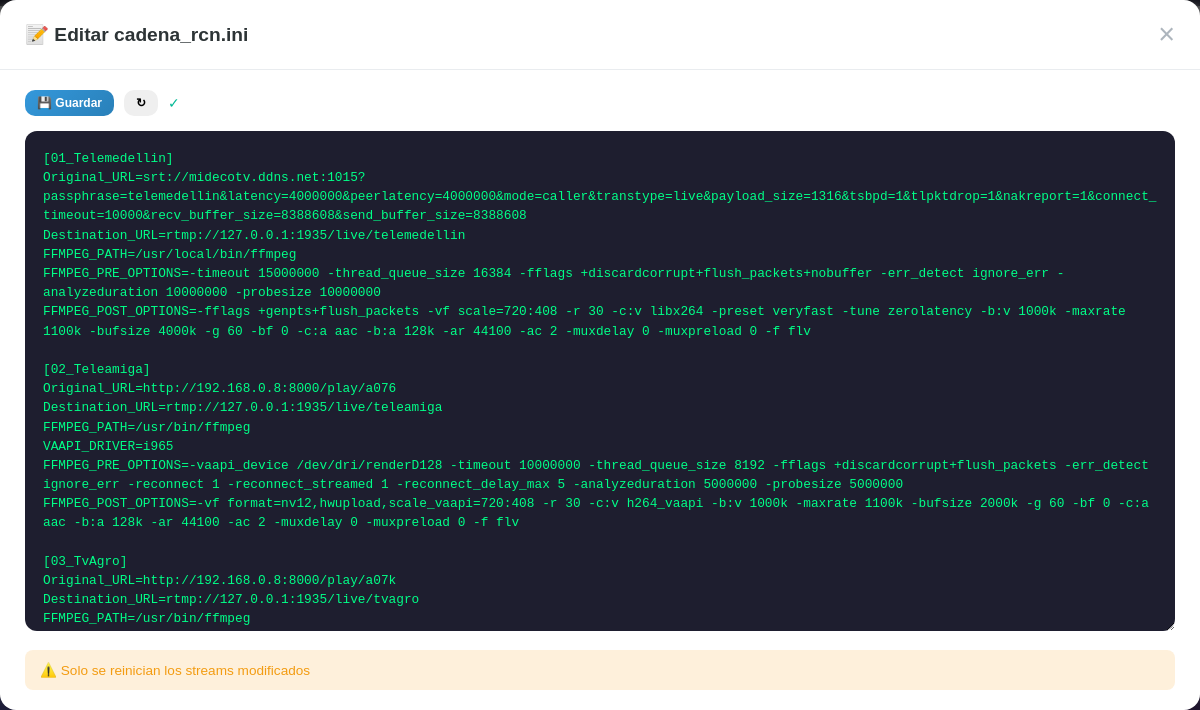
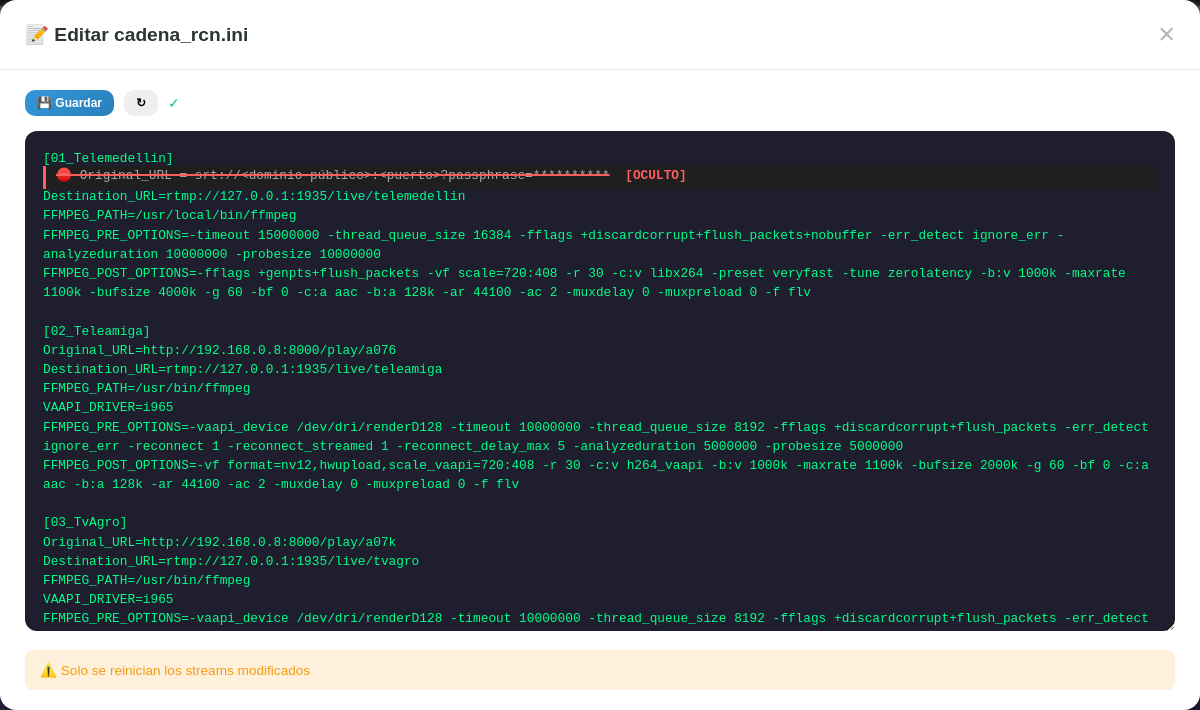
docs: redact public-domain line in INI editor screenshot
The Telemedellín source uses a public SRT host (midecotv.ddns.net) and
a passphrase, so its Original_URL must never appear in a public-facing
screenshot. The other streams run over LAN IPs and stay visible.

The screenshot script now sanitizes just that one line in the textarea
DOM and overlays an opaque strikethrough banner labelled [OCULTO] over
it before taking the screenshot. The original app and cadena_rcn.ini
are not modified.

diff --git a/tools/take_screenshots.py b/tools/take_screenshots.py
@@ -89,7 +89,74 @@ async def main():
         # INI modal
         await page.locator("button", has_text="INI").click()
         await page.wait_for_selector("#ini-modal", timeout=5000)
-        await page.wait_for_timeout(500)
+        await page.wait_for_function(
+            "document.getElementById('ini-content').value.includes('[01_Telemedellin]')",
+            timeout=5000,
+        )
+        await page.wait_for_timeout(400)
+        # Redact the Telemedellín Original_URL (public SRT host) in-place so the
+        # screenshot never shows the real domain / passphrase. The screenshot
+        # script never POSTs anything back, this only edits the DOM textarea
+        # for the documentation capture.
+        await page.evaluate(
+            """
+            () => {
+                const ta = document.getElementById('ini-content');
+                const lines = ta.value.split('\\n');
+                const idx = lines.findIndex(l => l.includes('[01_Telemedellin]'));
+                if (idx === -1) return;
+                // Replace only the long public-domain URL with a short placeholder
+                // so it fits on a single line in the screenshot.
+                lines[idx + 1] = 'Original_URL=srt://<dominio-publico-redactado>:<puerto>?passphrase=<clave-oculta>';
+                ta.value = lines.join('\\n');
+
+                const rect = ta.getBoundingClientRect();
+                const cs = getComputedStyle(ta);
+                const lineHeight = parseFloat(cs.lineHeight) || (parseFloat(cs.fontSize) * 1.4);
+                const paddingTop = parseFloat(cs.paddingTop) || 0;
+                const paddingLeft = parseFloat(cs.paddingLeft) || 0;
+                const paddingRight = parseFloat(cs.paddingRight) || 0;
+                const urlLineIdx = idx + 1;
+
+                const overlay = document.createElement('div');
+                overlay.style.cssText = `
+                    position: fixed;
+                    left: ${rect.left + paddingLeft}px;
+                    top:  ${rect.top  + paddingTop + urlLineIdx * lineHeight - 2}px;
+                    width: ${rect.width - paddingLeft - paddingRight}px;
+                    height: ${lineHeight + 4}px;
+                    background: #1f1f1f;
+                    border-left: 3px solid #ff5e5e;
+                    color: #ffb4b4;
+                    font-family: ${cs.fontFamily};
+                    font-size: ${cs.fontSize};
+                    line-height: ${lineHeight}px;
+                    padding: 0 10px;
+                    z-index: 999999;
+                    white-space: nowrap;
+                    overflow: hidden;
+                    text-overflow: ellipsis;
+                    pointer-events: none;
+                    box-sizing: border-box;
+                `;
+                const inner = document.createElement('span');
+                inner.textContent = '\u26D4  Original_URL = srt://<dominio-p\u00fablico>:<puerto>?passphrase=**********';
+                inner.style.textDecoration = 'line-through';
+                inner.style.textDecorationColor = '#ff5e5e';
+                inner.style.textDecorationThickness = '2px';
+                inner.style.color = '#aaaaaa';
+                overlay.appendChild(inner);
+                const tag = document.createElement('span');
+                tag.textContent = '  [OCULTO]';
+                tag.style.color = '#ff5e5e';
+                tag.style.fontWeight = 'bold';
+                tag.style.marginLeft = '8px';
+                overlay.appendChild(tag);
+                document.body.appendChild(overlay);
+            }
+            """
+        )
+        await page.wait_for_timeout(150)
         await shoot_clip(page, page.locator("#ini-modal .modal-content"), "modal-ini.png")
         await page.close()
 
